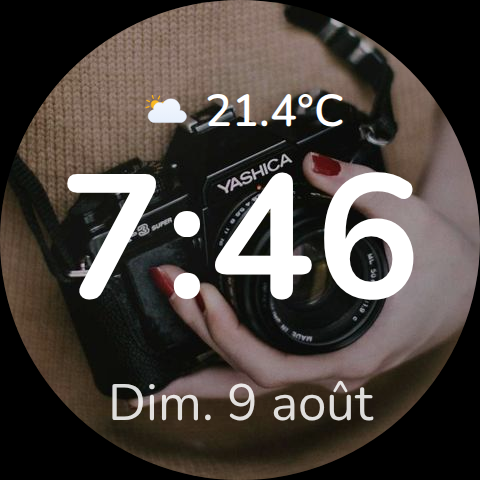
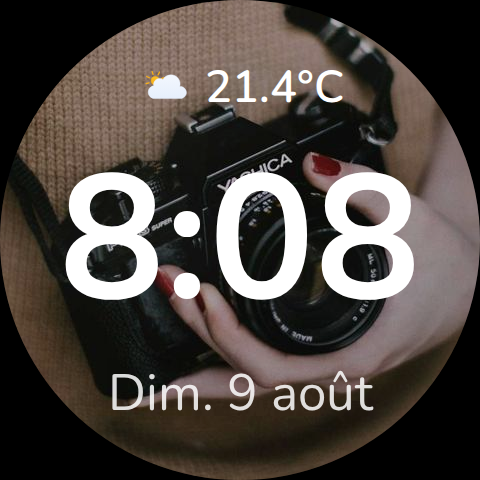
1.0.7: retrait météo d'origine, centre la date sur l'encre réelle
Météo : retour au retrait de la 1.0.4, les 1.0.5/1.0.6 étaient parties
dans le mauvais sens ("c'est pire" signalé par l'utilisateur).

Date : le calcul de la 1.0.4-1.0.6 égalisait les boîtes CSS
(line-height:1) horloge/date, pas l'encre visible du texte. Mesuré via
Canvas measureText (métriques de police réelles) : Nunito laisse
nettement plus de vide sous le texte que dessus dans sa boîte de ligne,
d'où l'asymétrie visuelle malgré des boîtes égales (confirmé avec une
règle en pixels superposée sur une capture, pas juste à l'œil). Nouveau
calcul basé sur ces mesures réelles : écart horloge→date et
date→bas d'écran désormais à 0.4px près (45.7 vs 45.3px, contre
62 vs 29px avant).

diff --git a/dist/echo-home-card.js b/dist/echo-home-card.js
@@ -294,8 +294,8 @@ w.elementStyles = [], w.shadowRootOptions = { mode: "open" }, w[S("elementProper
  * Copyright 2017 Google LLC
  * SPDX-License-Identifier: BSD-3-Clause
  */
-const C = globalThis, Q = (r) => r, M = C.trustedTypes, Y = M ? M.createPolicy("lit-html", { createHTML: (r) => r }) : void 0, pe = "$lit$", m = `lit$${Math.random().toFixed(9).slice(2)}$`, _e = "?" + m, Pe = `<${_e}>`, y = document, z = () => y.createComment(""), P = (r) => r === null || typeof r != "object" && typeof r != "function", J = Array.isArray, Ue = (r) => J(r) || typeof (r == null ? void 0 : r[Symbol.iterator]) == "function", I = `[ 	
-\f\r]`, x = /<(?:(!--|\/[^a-zA-Z])|(\/?[a-zA-Z][^>\s]*)|(\/?$))/g, ee = /-->/g, te = />/g, $ = RegExp(`>|${I}(?:([^\\s"'>=/]+)(${I}*=${I}*(?:[^ 	
+const C = globalThis, Q = (r) => r, M = C.trustedTypes, Y = M ? M.createPolicy("lit-html", { createHTML: (r) => r }) : void 0, pe = "$lit$", m = `lit$${Math.random().toFixed(9).slice(2)}$`, _e = "?" + m, Pe = `<${_e}>`, y = document, z = () => y.createComment(""), P = (r) => r === null || typeof r != "object" && typeof r != "function", J = Array.isArray, Ue = (r) => J(r) || typeof (r == null ? void 0 : r[Symbol.iterator]) == "function", j = `[ 	
+\f\r]`, x = /<(?:(!--|\/[^a-zA-Z])|(\/?[a-zA-Z][^>\s]*)|(\/?$))/g, ee = /-->/g, te = />/g, $ = RegExp(`>|${j}(?:([^\\s"'>=/]+)(${j}*=${j}*(?:[^ 	
 \f\r"'\`<>=]|("|')|))|$)`, "g"), se = /'/g, ie = /"/g, me = /^(?:script|style|textarea|title)$/i, Te = (r) => (e, ...t) => ({ _$litType$: r, strings: e, values: t }), N = Te(1), A = Symbol.for("lit-noChange"), d = Symbol.for("lit-nothing"), re = /* @__PURE__ */ new WeakMap(), g = y.createTreeWalker(y, 129);
 function fe(r, e) {
   if (!J(r) || !r.hasOwnProperty("raw")) throw Error("invalid template strings array");
@@ -517,9 +517,9 @@ class qe {
     E(this, e);
   }
 }
-const L = C.litHtmlPolyfillSupport;
+const I = C.litHtmlPolyfillSupport;
 var le;
-L == null || L(U, T), ((le = C.litHtmlVersions) != null ? le : C.litHtmlVersions = []).push("3.3.3");
+I == null || I(U, T), ((le = C.litHtmlVersions) != null ? le : C.litHtmlVersions = []).push("3.3.3");
 const De = (r, e, t) => {
   var n, o;
   const s = (n = t == null ? void 0 : t.renderBefore) != null ? n : e;
@@ -563,11 +563,11 @@ class k extends w {
 }
 var ce;
 k._$litElement$ = !0, k.finalized = !0, (ce = v.litElementHydrateSupport) == null || ce.call(v, { LitElement: k });
-const j = v.litElementPolyfillSupport;
-j == null || j({ LitElement: k });
+const L = v.litElementPolyfillSupport;
+L == null || L({ LitElement: k });
 var he;
 ((he = v.litElementVersions) != null ? he : v.litElementVersions = []).push("4.2.2");
-const $e = "echo-home-card", Ie = "https://cdn.jsdelivr.net/npm/@meteocons/svg", b = {
+const $e = "echo-home-card", je = "https://cdn.jsdelivr.net/npm/@meteocons/svg", b = {
   // --- Entités (aucune n'est requise — la carte fonctionne comme simple
   // horloge sans rien configurer du tout) ---
   satellite_entity: null,
@@ -614,7 +614,7 @@ const $e = "echo-home-card", Ie = "https://cdn.jsdelivr.net/npm/@meteocons/svg",
   zoom: 1
   // facteur d'échelle manuel (CSS zoom), filet de rattrapage si
   // les tailles fluides ne suivent pas correctement sur un appareil donné
-}, Le = {
+}, Ie = {
   "clear-night": "clear-night",
   cloudy: "cloudy",
   exceptional: "not-available",
@@ -630,14 +630,14 @@ const $e = "echo-home-card", Ie = "https://cdn.jsdelivr.net/npm/@meteocons/svg",
   windy: "wind",
   "windy-variant": "wind"
 };
-function je(r, e) {
-  return r === "partlycloudy" ? e ? "partly-cloudy-night" : "partly-cloudy-day" : r === "sunny" && e ? "clear-night" : Le[r] || "not-available";
+function Le(r, e) {
+  return r === "partlycloudy" ? e ? "partly-cloudy-night" : "partly-cloudy-day" : r === "sunny" && e ? "clear-night" : Ie[r] || "not-available";
 }
 function We(r, e) {
   if (e != null && e.base_url)
     return `${e.base_url.replace(/\/$/, "")}/${r}.svg`;
   const t = (e == null ? void 0 : e.style) || "fill";
-  return `${Ie}/${t}/${r}.svg`;
+  return `${je}/${t}/${r}.svg`;
 }
 function Ve(r, e, t) {
   return new Intl.DateTimeFormat(e, {
@@ -773,7 +773,7 @@ class V extends k {
     `;
   }
   _renderWeather(e) {
-    const t = je(e.state, this._isDarkOutside()), s = We(t, this._config.icons), i = Number(e.attributes.temperature).toFixed(1), n = e.attributes.temperature_unit || "°C", o = Fe(this._hass, e.state), l = this._weatherClickable();
+    const t = Le(e.state, this._isDarkOutside()), s = We(t, this._config.icons), i = Number(e.attributes.temperature).toFixed(1), n = e.attributes.temperature_unit || "°C", o = Fe(this._hass, e.state), l = this._weatherClickable();
     return N`
       <div
         class="weather ${l ? "clickable" : ""}"
@@ -912,21 +912,25 @@ q(V, "properties", {
 
     .date {
       position: absolute;
-      /* Calée pour que l'espace horloge→date soit égal à l'espace
-         date→bas d'écran, quelle que soit la taille de l'horloge/date
-         (donc correct aussi en mode round où elles sont redéfinies).
-         Avec H la hauteur de la carte (100%, d'où le calc en % — top
-         est relatif au conteneur, contrairement à transform), C
-         --_clock-size et D --_date-size : le bas de l'horloge est à
-         H/2 + C/2, on veut top_date + D + gap = H avec
-         top_date = H/2 + C/2 + gap, ce qui donne
-         top_date = 3H/4 + C/4 - D/2. */
-      top: calc(75% + var(--_clock-size) / 4 - var(--_date-size) / 2);
+      /* La version précédente égalisait les *boîtes* CSS horloge/date
+         (line-height:1), pas l'encre visible du texte — repéré avec une
+         règle en pixels superposée sur une capture : la police (Nunito)
+         réserve nettement plus d'espace vide sous le texte que dessus
+         dans sa boîte de ligne (métriques mesurées via Canvas
+         measureText : ~11% de la hauteur de l'horloge inutilisée en
+         haut, ~15% en bas ; ~6% en haut / ~15% en bas pour la date —
+         cf. les chiffres n'atteignent jamais la hauteur d'ascendante
+         complète, contrairement à "Dim." avec sa majuscule). D'où
+         l'écart visuel malgré des boîtes CSS symétriques. Coefficients
+         ci-dessous ajustés à partir de ces mesures réelles (pas
+         théoriques) pour que l'*encre* visible soit centrée dans
+         l'espace sous l'horloge, pas la boîte. Toujours basé sur
+         --_clock-size/--_date-size (donc correct en mode round aussi),
+         mais avec des coefficients propres à Nunito — à réajuster si la
+         police change (voir --echo-home-font-family). */
+      top: calc(75% + var(--_clock-size) * 0.175 - var(--_date-size) * 0.4515);
       left: 50%;
       transform: translateX(-50%);
-      /* line-height: 1 : le line-height par défaut du navigateur (~1.2)
-         fausserait le calcul ci-dessus (basé sur --_date-size comme
-         hauteur réelle de la boîte). */
       line-height: 1;
       font-size: var(--_date-size);
       color: var(--_text-color);
@@ -936,8 +940,8 @@ q(V, "properties", {
 
     .weather {
       position: absolute;
-      top: clamp(36px, 9vh, 70px);
-      left: clamp(40px, 10%, 90px);
+      top: clamp(12px, 4vh, 28px);
+      left: clamp(12px, 5%, 32px);
       z-index: 1;
       display: flex;
       align-items: center;
@@ -949,7 +953,7 @@ q(V, "properties", {
        en haut à la place. */
     .card.round .weather {
       left: 50%;
-      top: clamp(44px, 22%, 80px);
+      top: clamp(28px, 15%, 56px);
       transform: translateX(-50%);
     }
 

diff --git a/src/echo-home-card.js b/src/echo-home-card.js
@@ -364,21 +364,25 @@ class EchoHomeCard extends LitElement {
 
     .date {
       position: absolute;
-      /* Calée pour que l'espace horloge→date soit égal à l'espace
-         date→bas d'écran, quelle que soit la taille de l'horloge/date
-         (donc correct aussi en mode round où elles sont redéfinies).
-         Avec H la hauteur de la carte (100%, d'où le calc en % — top
-         est relatif au conteneur, contrairement à transform), C
-         --_clock-size et D --_date-size : le bas de l'horloge est à
-         H/2 + C/2, on veut top_date + D + gap = H avec
-         top_date = H/2 + C/2 + gap, ce qui donne
-         top_date = 3H/4 + C/4 - D/2. */
-      top: calc(75% + var(--_clock-size) / 4 - var(--_date-size) / 2);
+      /* La version précédente égalisait les *boîtes* CSS horloge/date
+         (line-height:1), pas l'encre visible du texte — repéré avec une
+         règle en pixels superposée sur une capture : la police (Nunito)
+         réserve nettement plus d'espace vide sous le texte que dessus
+         dans sa boîte de ligne (métriques mesurées via Canvas
+         measureText : ~11% de la hauteur de l'horloge inutilisée en
+         haut, ~15% en bas ; ~6% en haut / ~15% en bas pour la date —
+         cf. les chiffres n'atteignent jamais la hauteur d'ascendante
+         complète, contrairement à "Dim." avec sa majuscule). D'où
+         l'écart visuel malgré des boîtes CSS symétriques. Coefficients
+         ci-dessous ajustés à partir de ces mesures réelles (pas
+         théoriques) pour que l'*encre* visible soit centrée dans
+         l'espace sous l'horloge, pas la boîte. Toujours basé sur
+         --_clock-size/--_date-size (donc correct en mode round aussi),
+         mais avec des coefficients propres à Nunito — à réajuster si la
+         police change (voir --echo-home-font-family). */
+      top: calc(75% + var(--_clock-size) * 0.175 - var(--_date-size) * 0.4515);
       left: 50%;
       transform: translateX(-50%);
-      /* line-height: 1 : le line-height par défaut du navigateur (~1.2)
-         fausserait le calcul ci-dessus (basé sur --_date-size comme
-         hauteur réelle de la boîte). */
       line-height: 1;
       font-size: var(--_date-size);
       color: var(--_text-color);
@@ -388,8 +392,8 @@ class EchoHomeCard extends LitElement {
 
     .weather {
       position: absolute;
-      top: clamp(36px, 9vh, 70px);
-      left: clamp(40px, 10%, 90px);
+      top: clamp(12px, 4vh, 28px);
+      left: clamp(12px, 5%, 32px);
       z-index: 1;
       display: flex;
       align-items: center;
@@ -401,7 +405,7 @@ class EchoHomeCard extends LitElement {
        en haut à la place. */
     .card.round .weather {
       left: 50%;
-      top: clamp(44px, 22%, 80px);
+      top: clamp(28px, 15%, 56px);
       transform: translateX(-50%);
     }
 

diff --git a/CHANGELOG.md b/CHANGELOG.md
@@ -1,5 +1,24 @@
 # Changelog
 
+## 1.0.7
+
+- **Bloc météo** : retour au retrait d'origine (1.0.4). Les 1.0.5/1.0.6
+  étaient parties dans le mauvais sens/la mauvaise ampleur — signalé par
+  l'utilisateur ("c'est pire, encore plus éloignée du bord").
+- **Date toujours pas centrée sous l'horloge**, cette fois corrigé pour
+  de bon : le calcul précédent égalisait les *boîtes* CSS
+  (line-height:1), pas l'*encre* réellement visible du texte. Mesuré
+  précisément via Canvas `measureText` (métriques de police réelles,
+  pas la boîte de ligne) : la police (Nunito) laisse ~11-15% de vide
+  sous les chiffres de l'horloge et ~6-15% sous la date, de façon
+  asymétrique — d'où l'écart malgré des boîtes CSS égales. Nouveau
+  calcul basé sur ces mesures réelles (coefficients empiriques propres
+  à Nunito) : écart horloge→date et date→bas d'écran mesurés à 45.7px
+  et 45.3px (0.4px d'écart, contre 62px/29px avant).
+- Vérifié cette fois avec une règle en pixels superposée sur une
+  capture à fond uni, en plus des mesures — pas seulement à l'œil sur
+  la capture finale.
+
 ## 1.0.6
 
 - Le retrait météo de la 1.0.5 était trop subtil pour être perceptible
